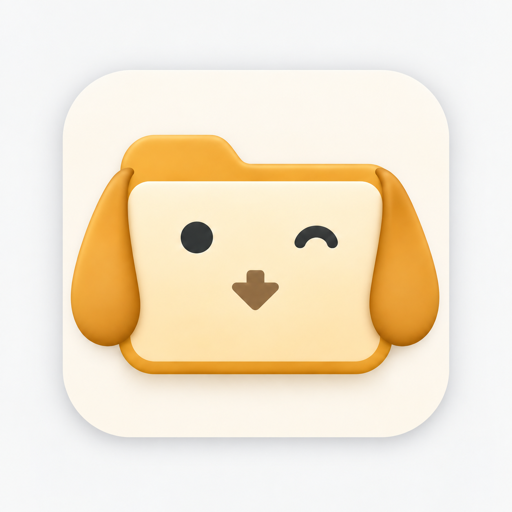
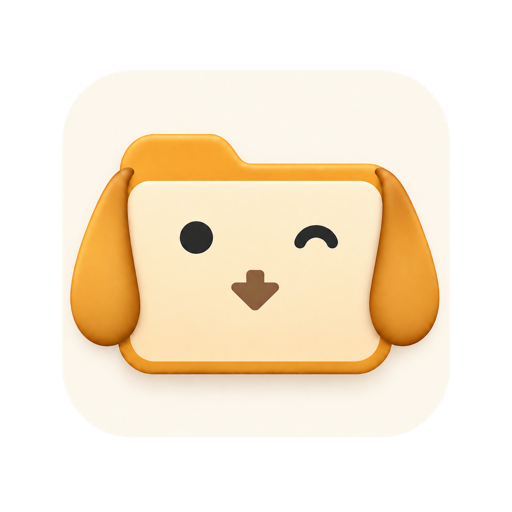
Prepare website and release notes for Retriever 0.2.0

diff --git a/web-page/index.html b/web-page/index.html
@@ -1,12 +1,12 @@
 <!doctype html>
-<html lang="en">
+<html lang="en" data-release-version="0.2.0" data-release-build="3">
 <head>
   <meta charset="utf-8">
   <meta name="viewport" content="width=device-width, initial-scale=1">
   <title>Retriever — SFTP for macOS</title>
-  <meta name="description" content="Connect to your server, browse folders, and download files with Retriever, a simple native SFTP app for Mac.">
+  <meta name="description" content="Return to saved SFTP servers, expand folders, preview files, and download with Retriever, a native app for Mac.">
   <meta property="og:title" content="Retriever — Go fetch your files.">
-  <meta property="og:description" content="A simple native SFTP browser for Mac. Connect, browse, download.">
+  <meta property="og:description" content="A native SFTP browser for Mac. Saved hosts, expandable folders, file previews, and downloads.">
   <meta property="og:type" content="website">
   <meta property="og:image" content="preview.jpg">
   <meta name="theme-color" content="#f6f1e8">
@@ -26,14 +26,14 @@
         <div>
           <p class="eyebrow">SFTP, made simple. For Mac.</p>
           <h1>Go fetch<br>your files.</h1>
-          <p class="lede">Connect to your server, find what you need, and bring it home. Retriever is a small native app for browsing and downloading files over SFTP.</p>
+          <p class="lede">Connect to your server, find what you need, and bring it home. Return to saved servers, expand folders, and preview files before downloading. Retriever is a native SFTP app for Mac.</p>
           <div class="hero-actions">
             <a class="button button-primary" data-download hidden download>Download for Mac ↓</a>
             <span class="button button-pending" data-pending>Download coming soon</span>
             <a class="button button-secondary" href="#how-it-works">How it works</a>
             <span class="download-note">macOS 14 or later · Apple silicon and Intel</span>
           </div>
-          <p class="release-status" data-release-status aria-live="polite">The first public download is being prepared.</p>
+          <p class="release-status" data-release-status aria-live="polite">Version 0.2.0 is being prepared.</p>
           <noscript><p>Enable JavaScript to check download availability, or see the <a href="release-notes.html">release notes</a>.</p></noscript>
         </div>
         <figure class="hero-visual">
@@ -46,10 +46,12 @@
   <main>
     <section class="section-rule" aria-labelledby="features-title">
       <div class="page-shell split">
-        <div><p class="eyebrow">Just the essentials</p><h2 id="features-title">Your server.<br>A familiar file browser.</h2><p class="body-copy">One connection, a clear file list, and a Download button. Built with native Mac controls that stay out of your way.</p></div>
+        <div><p class="eyebrow">Just the essentials</p><h2 id="features-title">Your server.<br>A familiar file browser.</h2><p class="body-copy">Return to your last folder, browse an expandable file tree, and preview a file before saving it. Built with native Mac controls.</p></div>
         <ul class="feature-list retriever-features">
           <li><span class="feature-mark" aria-hidden="true">↗</span><div><strong>Connect with SSH</strong>Use your SSH keys, agent, or password. Check the server fingerprint before trusting a new connection.</div></li>
-          <li><span class="feature-mark" aria-hidden="true">▤</span><div><strong>Find your files</strong>Browse folders, go up a level, and refresh the listing. See file sizes and modification dates at a glance.</div></li>
+          <li><span class="feature-mark" aria-hidden="true">▤</span><div><strong>Return to your saved hosts</strong>Successful connections are saved with each host’s last visited folder. Reconnect without retyping the details. Passwords are never saved.</div></li>
+          <li><span class="feature-mark" aria-hidden="true">▸</span><div><strong>Expand folders in place</strong>Open folders within the file tree. Browse nested files while keeping the parent folder in view.</div></li>
+          <li><span class="feature-mark" aria-hidden="true">◉</span><div><strong>Preview before downloading</strong>Right-click a file and choose Preview to open a temporary copy in native Quick Look. Close the preview to remove the copy.</div></li>
           <li><span class="feature-mark" aria-hidden="true">↓</span><div><strong>Bring a file home</strong>Choose where to save it with the macOS Save dialog. Cancel a transfer when you need to; partial downloads are cleaned up.</div></li>
         </ul>
       </div>
@@ -57,19 +59,19 @@
     <section class="steps" id="how-it-works" aria-labelledby="steps-title">
       <div class="page-shell"><p class="eyebrow">Three simple steps</p><h2 id="steps-title">From your server to your Mac.</h2>
         <div class="step-grid">
-          <div class="step"><span>1</span><h3>Open a connection</h3><p>Enter your server, username, and SFTP port. Verify the server’s fingerprint when prompted.</p></div>
-          <div class="step"><span>2</span><h3>Browse to your file</h3><p>Open folders in the file list. Use Up to return to the parent folder.</p></div>
-          <div class="step"><span>3</span><h3>Download</h3><p>Select a file, choose Download, and pick a new local filename. Existing files are preserved.</p></div>
+          <div class="step"><span>1</span><h3>Open a connection</h3><p>Choose a saved host or enter a server, username, and SFTP port. Verify a new server’s fingerprint when prompted.</p></div>
+          <div class="step"><span>2</span><h3>Browse to your file</h3><p>Reconnect to your last folder. Click folder arrows to expand the tree, or double-click a folder to open it.</p></div>
+          <div class="step"><span>3</span><h3>Preview or download</h3><p>Right-click a file to preview it or choose Download. Pick a new local filename to preserve existing files.</p></div>
         </div>
       </div>
     </section>
     <section id="install" aria-labelledby="install-title"><div class="page-shell split">
       <div><p class="eyebrow">Install</p><h2 id="install-title">Right at home on your Mac.</h2></div>
-      <div class="body-copy"><p>Open the downloaded DMG and drag Retriever to Applications. Launch Retriever and choose Open Connection.</p><p>Requires macOS 14 or later and an SFTP server. This first version downloads individual files; FTP, uploads, and folder downloads are not supported.</p></div>
+      <div class="body-copy"><p>Open the downloaded DMG and drag Retriever to Applications. Launch Retriever and choose Open Connection.</p><p>Requires macOS 14 or later and an SFTP server. Retriever previews and downloads individual files. FTP, uploads, folder downloads, and symbolic-link downloads are not supported.</p></div>
     </div></section>
     <section class="section-rule"><div class="page-shell download-panel">
       <img src="app-icon.png" width="512" height="512" alt="">
-      <div><h2>Ready to retrieve?</h2><p data-release-status>The first public download is being prepared.</p><a data-checksum hidden href="Retriever.dmg.sha256">SHA-256 checksum</a></div>
+      <div><h2>Ready to retrieve?</h2><p data-release-status>Version 0.2.0 is being prepared.</p><a data-checksum hidden href="Retriever.dmg.sha256">SHA-256 checksum</a></div>
       <a class="button button-primary" data-download hidden download>Download for Mac ↓</a><span class="button button-pending" data-pending>Coming soon</span>
     </div></section>
   </main>

diff --git a/web-page/release-notes.html b/web-page/release-notes.html
@@ -1,5 +1,5 @@
 <!doctype html>
-<html lang="en">
+<html lang="en" data-release-version="0.2.0" data-release-build="3">
 <head>
   <meta charset="utf-8"><meta name="viewport" content="width=device-width, initial-scale=1">
   <title>Release notes — Retriever for macOS</title>
@@ -10,9 +10,19 @@
 <body class="release-page">
   <a class="skip-link" href="#main">Skip to content</a>
   <div class="page-shell"><nav class="topbar" aria-label="Main navigation"><a class="brand" href="./"><img src="app-icon.png" width="512" height="512" alt=""><span>Retriever</span></a><a href="./">Back to Retriever</a></nav>
-    <header class="release-header"><p class="eyebrow">What’s new</p><h1>Release notes.</h1><p class="lede">A simple way to bring files home from your server.</p><p data-release-status>The first public download is being prepared.</p></header>
+    <header class="release-header"><p class="eyebrow">What’s new</p><h1>Release notes.</h1><p class="lede">A simple way to bring files home from your server.</p><p data-release-status>Version 0.2.0 is being prepared.</p></header>
   </div>
-  <main id="main" class="page-shell release-list"><article class="release" id="v0-1-0">
+  <main id="main" class="page-shell release-list"><article class="release" id="v0-2-0">
+    <div class="release-meta"><span class="release-version">Version 0.2.0</span><span data-latest-release-label>Upcoming release</span><a class="release-permalink" href="#v0-2-0">Link to this version</a></div>
+    <div class="release-content"><h2>Pick up where you left off.</h2><p class="release-intro">Return to saved servers, expand folders in place, and preview files before downloading.</p>
+      <div class="release-change"><h3>Saved hosts and folders</h3><ul><li>Successful connections are saved automatically with each host’s last visited folder.</li><li>Choose a saved host in Open Connection, edit its starting folder, or use Forget to remove it.</li><li>If a saved folder is unavailable, Retriever opens the server’s home folder and shows a notice.</li><li>Passwords are never saved. Retriever does not connect automatically when it starts.</li></ul></div>
+      <div class="release-change"><h3>Browse an expandable file tree</h3><ul><li>Click a folder’s arrow to expand or collapse it within the file list.</li><li>Browse nested folders and download their files without leaving the current directory.</li><li>Larger disclosure arrows and vertically centered labels make rows easier to read.</li></ul></div>
+      <div class="release-change"><h3>Preview from the context menu</h3><ul><li>Right-click a file for Download or Preview.</li><li>Download opens the existing macOS Save dialog.</li><li>Preview retrieves a temporary copy and displays it in native Quick Look.</li><li>Temporary preview files are removed when the preview closes, is replaced, or the app quits. Preview downloads can be cancelled.</li></ul></div>
+      <div class="release-change"><h3>A consistent app icon</h3><ul><li>The Dock and About panel show the Retriever icon with a rounded tile and transparent outer corners.</li></ul></div>
+      <p class="body-copy">Requires macOS 14 or later. FTP, uploads, folder downloads, and symbolic-link downloads remain unsupported.</p>
+    </div>
+  </article>
+  <article class="release" id="v0-1-0">
     <div class="release-meta"><span class="release-version">Version 0.1.0</span><span>Initial version</span><a class="release-permalink" href="#v0-1-0">Link to this version</a></div>
     <div class="release-content"><h2>Meet Retriever.</h2><p class="release-intro">A native Mac app for connecting to an SFTP server, browsing its folders, and downloading individual files.</p>
       <div class="release-change"><h3>Connect and browse</h3><ul><li>Connect using SSH keys, an SSH agent, or a password.</li><li>Verify a new server’s fingerprint before connecting.</li><li>Navigate folders and view file names, sizes, and modification dates.</li></ul></div>

diff --git a/web-page/release.js b/web-page/release.js
@@ -6,6 +6,8 @@
     const release = await response.json();
     if (release.file !== 'Retriever.dmg' || !/^\d+(\.\d+){0,2}$/.test(release.version) ||
         !/^\d+$/.test(release.build) || !/^[a-f0-9]{64}$/.test(release.sha256)) return;
+    const expected = document.documentElement.dataset;
+    if (release.version !== expected.releaseVersion || Number(release.build) < Number(expected.releaseBuild)) return;
     const download = await fetch(release.file, { method: 'HEAD', cache: 'no-store' });
     if (!download.ok) return;
     document.querySelectorAll('[data-download]').forEach(link => {
@@ -14,6 +16,7 @@
     });
     document.querySelectorAll('[data-pending]').forEach(element => { element.hidden = true; });
     document.querySelectorAll('[data-checksum]').forEach(element => { element.hidden = false; });
+    document.querySelectorAll('[data-latest-release-label]').forEach(element => { element.textContent = 'Available now'; });
     document.querySelectorAll('[data-release-status]').forEach(element => {
       element.textContent = `Version ${release.version} (${release.build}) · Signed and notarized for macOS.`;
     });

diff --git a/web-page/styles.css b/web-page/styles.css
@@ -509,7 +509,7 @@ footer a {
 }
 
 .release-change ul {
-  margin: 0;
+  margin: 12px 0 0;
   padding-left: 19px;
   color: var(--muted);
 }

diff --git a/AGENTS.md b/AGENTS.md
@@ -40,7 +40,7 @@ Shared version and signing settings live in `Config/Signing.xcconfig`. Local cre
 `make check-browser` compiles production AppKit controller sources and uses an internal session factory to isolate fixture credentials. It verifies native connection/navigation and selected-file retrieval with an explicit destination; it does not prove native save confirmation or packaged-app authentication. `retrieveSelection(to:)` is shared by the save callback and the integration runner.
 
 ## Website release handoff
-`make release` signs/notarizes and validates the app and DMG, requires the installed-copy verification, then publishes locally to `web-page/Retriever.dmg`, with checksum and release.json. Previous artifacts are backed up in ignored `docs/dmg-backups/`. The static website enables downloads only when generated release metadata and DMG are available. No website upload occurs. `python3 scripts/check_release_publication.py` tests output/backups without credentials.
+`make release` signs/notarizes and validates the app and DMG, requires the installed-copy verification, then publishes locally to `web-page/Retriever.dmg`, with checksum and release.json. Previous artifacts are backed up in ignored `docs/dmg-backups/`. The static website enables downloads only when generated release metadata and DMG are available and match the version/minimum build declared on the pages. Keep those declarations aligned with Config/Signing.xcconfig when preparing a release. No website upload occurs. `python3 scripts/check_release_publication.py` tests output/backups without credentials.
 
 ## Saved hosts
 `ConnectionHistory` is a main-actor store of successful host/account/port identities and raw folder bytes. `ConnectionSheet` provides the saved-host picker, New connection, editable Remote folder, and Forget. Save only after successful listing; update locations after successful navigation. Forgetting a connected host must not re-add it during navigation. SFTP reconnect falls back to home only on complete path-related server status responses; do not hide transport/authentication/cancellation errors. Inject isolated UserDefaults suites in checks.

diff --git a/docs/2026-09-29-22-40-website-release.md b/docs/2026-09-29-22-40-website-release.md
@@ -1,0 +1,11 @@
+# Website release preparation
+
+Update release notes and landing-page copy for saved hosts and last folders, inline folder expansion, right-click Download and Quick Look Preview, and the rounded app icon. Preserve prior release notes. Match the next version/build with the CLI release configuration. Keep download buttons unavailable while the existing manifest describes an older release. Do not generate or replace the DMG, checksum, or release manifest; the user will run the release CLI.
+
+Validate desktop/mobile layouts, links, release gating for old/missing/current manifests, and the existing local artifact checksum. Record simulated metadata explicitly in test output.
+
+## Version and handoff
+User selected 0.2.0 (build 3). Updated `Config/Signing.xcconfig` and both pages’ expected release version/build. The normal `make release` command creates the signed/notarized DMG, checksum, and matching `release.json` after its installed-copy verification. Publish all of `web-page/` together after that succeeds. No DMG, checksum, or manifest was modified for this preparation.
+
+## Verification
+Browser audit passed for desktop and mobile layouts, navigation, skip link, downloaded artifact checksum, and old/missing/current release metadata states. Read and inspected `website-desktop.png` and `release-notes-mobile.png` in `artifacts/verification/`. These screenshots simulate the future matching manifest to verify the available state; they are not evidence that 0.2.0 has been signed or notarized. The current local artifact remains version 0.1.0 (build 2).
